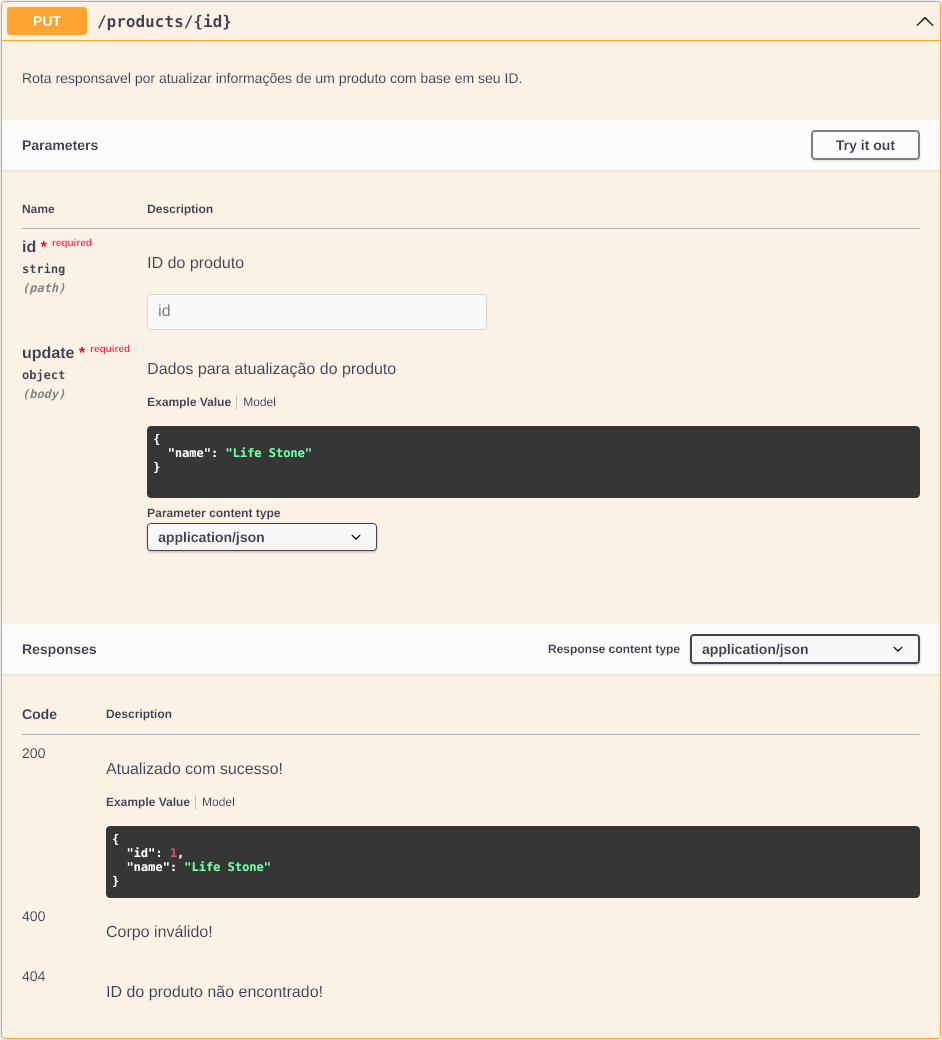
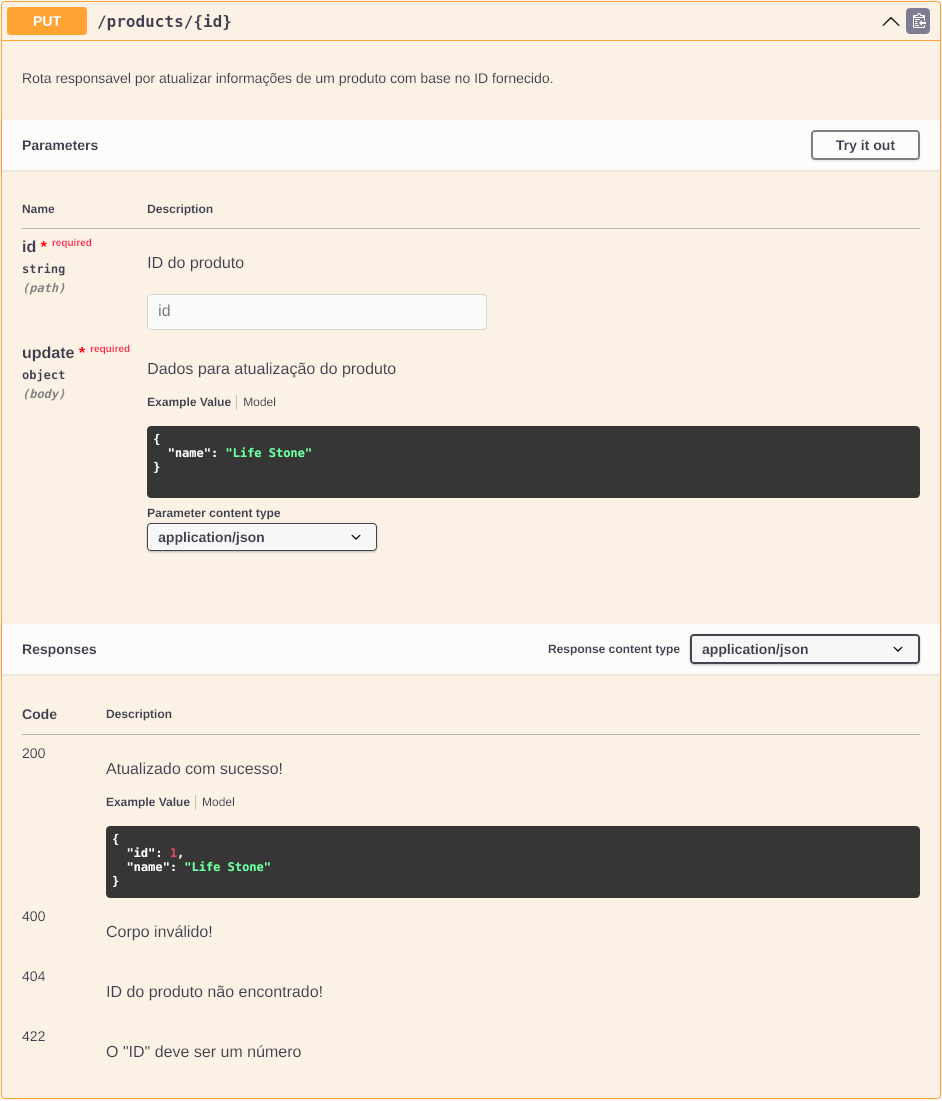
docs: documentation route delete product id
add all documentation with swagger about route delete product id, that delete a product by its id

diff --git a/controllers/productController.js b/controllers/productController.js
@@ -8,7 +8,7 @@ const productController = {
   },
   async getById(req, res) {
     /*  #swagger.tags = ['Products']
-        #swagger.description = 'Rota responsavel por procurar um produto com base em seu ID'
+        #swagger.description = 'Rota responsavel por procurar um produto com base no ID fornecido.'
         #swagger.parameters['id'] = {
           in: 'path',
           description: 'ID do produto',
@@ -38,7 +38,7 @@ const productController = {
   },
   async update(req, res) {
     /** #swagger.tags = ['Products']
-        #swagger.description = 'Rota responsavel por atualizar informações de um produto com base em seu ID.'
+        #swagger.description = 'Rota responsavel por atualizar informações de um produto com base no ID fornecido.'
         #swagger.parameters['id'] = { in: 'path', description: 'ID do produto' }
         #swagger.parameters['update'] = {
           in: 'body',
@@ -66,14 +66,35 @@ const productController = {
         #swagger.responses[404] = {
           description: 'ID do produto não encontrado!'
         }
+
+        #swagger.responses[422] = {
+          description: 'O "ID" deve ser um número'
+        }
     
      */
     res.status(status.HTTP_OK_REQUEST).json({ id, name });
   },
   async remove(req, res) {
+    /*  #swagger.tags = ['Products']
+        #swagger.description = 'Rota responsavel por remover um produto com base no ID fornecido.'
+        #swagger.parameters['id'] = { in: 'path', description: 'ID do produto' }
+     */
     const { id } = await productService.validateId(req.params);
     await productService.getById(id);
     await productService.remove({ id });
+
+    /*  #swagger.responses[204] = {
+          description: 'Produto removido com sucesso'
+        }
+        
+        #swagger.responses[404] = {
+          description: 'ID do produto não encontrado!'
+        }
+
+        #swagger.responses[422] = {
+          description: 'O "ID" deve ser um número'
+        }
+     */
     res.status(status.HTTP_NO_CONTENT).json();
   },
   async getByName(req, res) {

diff --git a/README.md b/README.md
@@ -3,13 +3,13 @@
 Desenvolvido um CRUD de uma API utilizando arquitetura **MSC** (Model Service Controller), de uma loja de super heroes.
 
 <a href="./img/swagger_allroutes.png">
-  <img src="./img/swagger_allroutes.png" width="30%"></img>
+  <img src="./img/swagger_allroutes.png" width="60%"></img>
 </a>
 <a href="./img/swagger_getProductId.png">
-  <img src="./img/swagger_getProductId.png" width="30%"></img>
+  <img src="./img/swagger_getProductId.png" width="60%"></img>
 </a>
 <a href="./img/swagger_getProductName.png">
-  <img src="./img/swagger_getProductName.png" width="30%"></img>
+  <img src="./img/swagger_getProductName.png" width="60%"></img>
 </a>
 
 # Tecnologias e ferramentas usadas 🛠
@@ -106,7 +106,7 @@ As rodas desenvolvidas no projeto são;
   ⚠ Pode ser usado o URL em seu navegador, um API Client ou acessando a rota `localhost:3000/docs` em seu navegador.
 
   <a href="./img/swagger_searchProductName.png">
-    <img src="./img/swagger_searchProductName.png" width="30%"></img>
+    <img src="./img/swagger_searchProductName.png" width="60%"></img>
   </a>
 
 </details>
@@ -122,7 +122,7 @@ As rodas desenvolvidas no projeto são;
   ⚠ Pode ser usado o URL em seu navegador, um API Client ou acessando a rota `localhost:3000/docs` em seu navegador.
 
   <a href="./img/swagger_getProductId.png">
-    <img src="./img/swagger_getProductId.png" width="30%"></img>
+    <img src="./img/swagger_getProductId.png" width="60%"></img>
   </a>
 
 </details>
@@ -138,7 +138,7 @@ As rodas desenvolvidas no projeto são;
   ⚠ Necessário uso de um API Client ou acessando a rota `localhost:3000/docs` em seu navegador.
 
 <a href="./img/swagger_getProductUpdate.png">
-  <img src="./img/swagger_getProductUpdate.png" width="30%"></img>
+  <img src="./img/swagger_getProductUpdate.png" width="60%"></img>
 </a>
 
 </details>
@@ -151,14 +151,12 @@ As rodas desenvolvidas no projeto são;
   <summary>
     Exemplo:
   </summary>
-  ⚠ Necessário uso de um API Client.
 
-  ```
-  localhost:3000/products/1
-  ```
+  ⚠ Necessário uso de um API Client ou acessando a rota `localhost:3000/docs` em seu navegador.
 
-- Se realizado com sucesso seu retorno deve ser <strong style="color:green">status 204 No Content</strong>, sem nenhuma informação.
-- Caso seja um id que não existe, seu retorno será <strong style="color:red">status 404 Not Found</strong>.
+  <a href="./img/swagger_getProductDelete.png">
+    <img src="./img/swagger_getProductDelete.png" width="60%"></img>
+  </a>
 
 </details>
 
